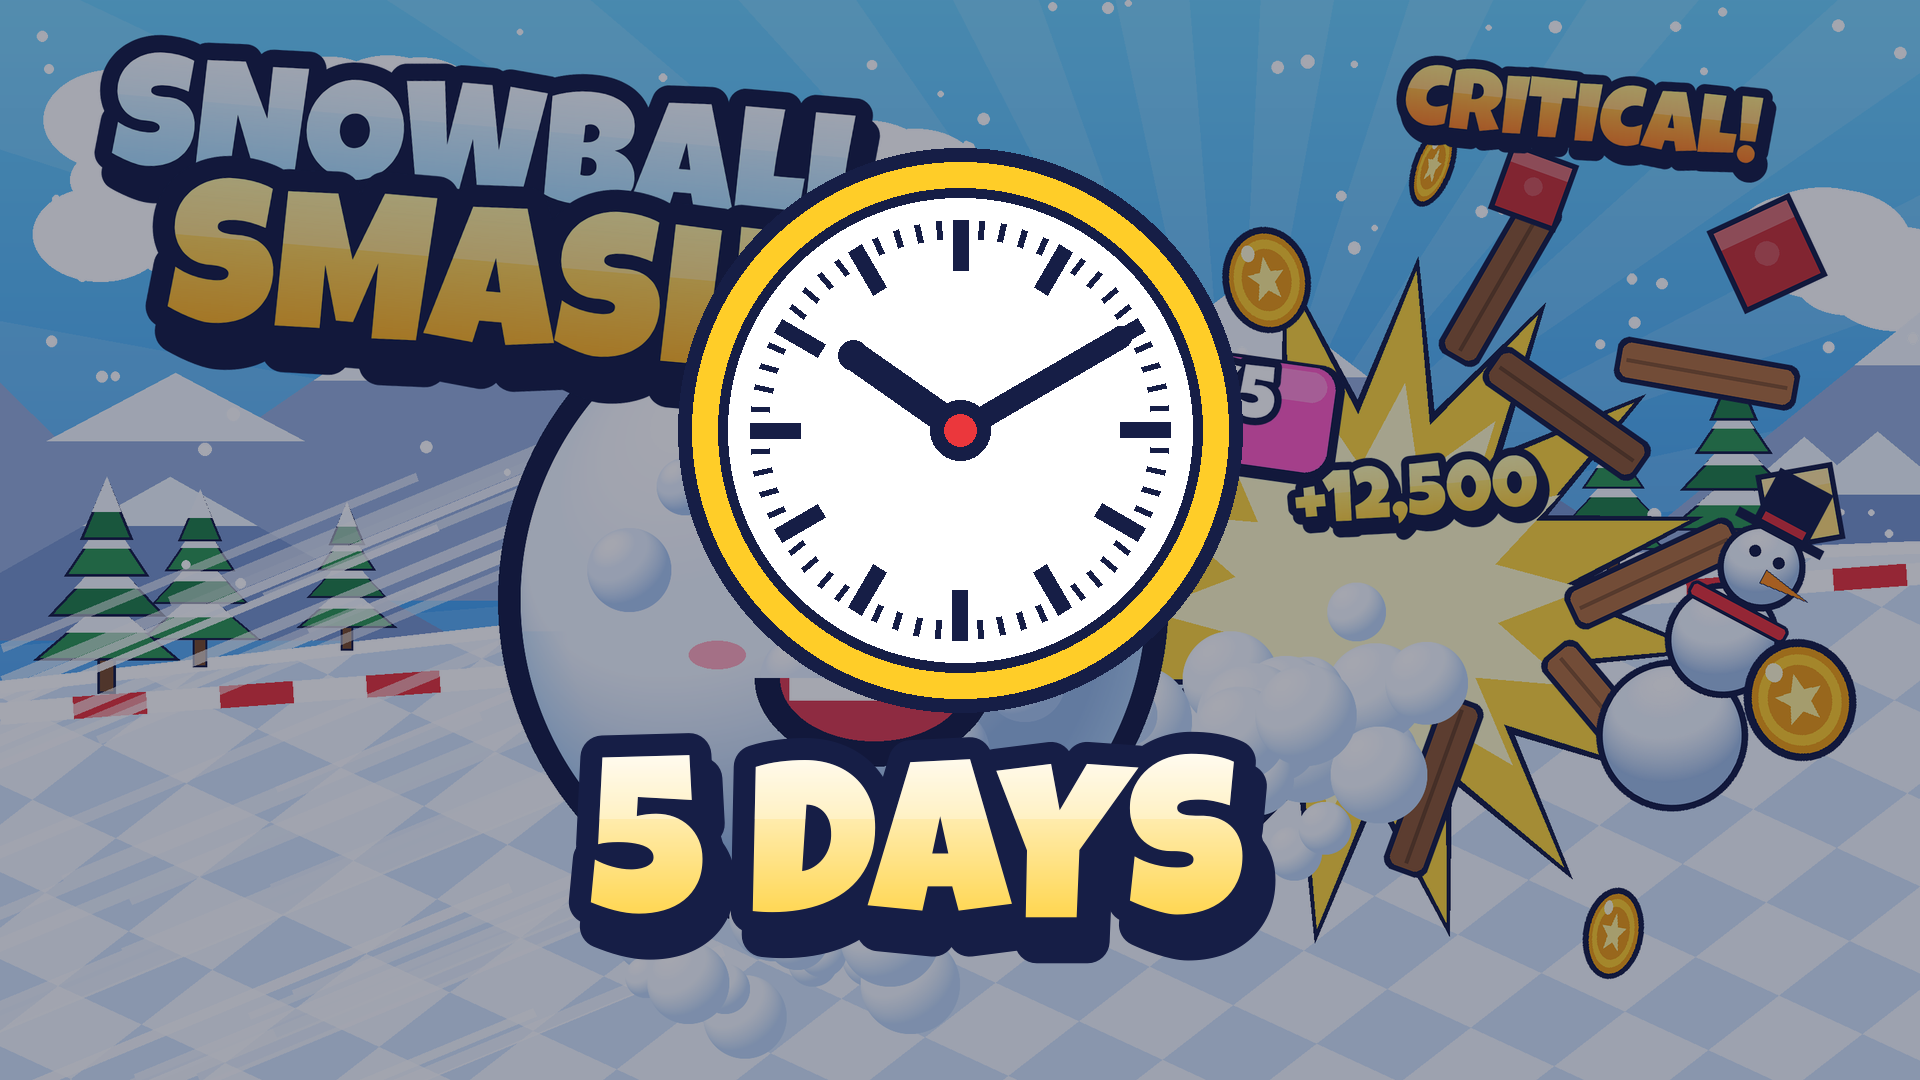
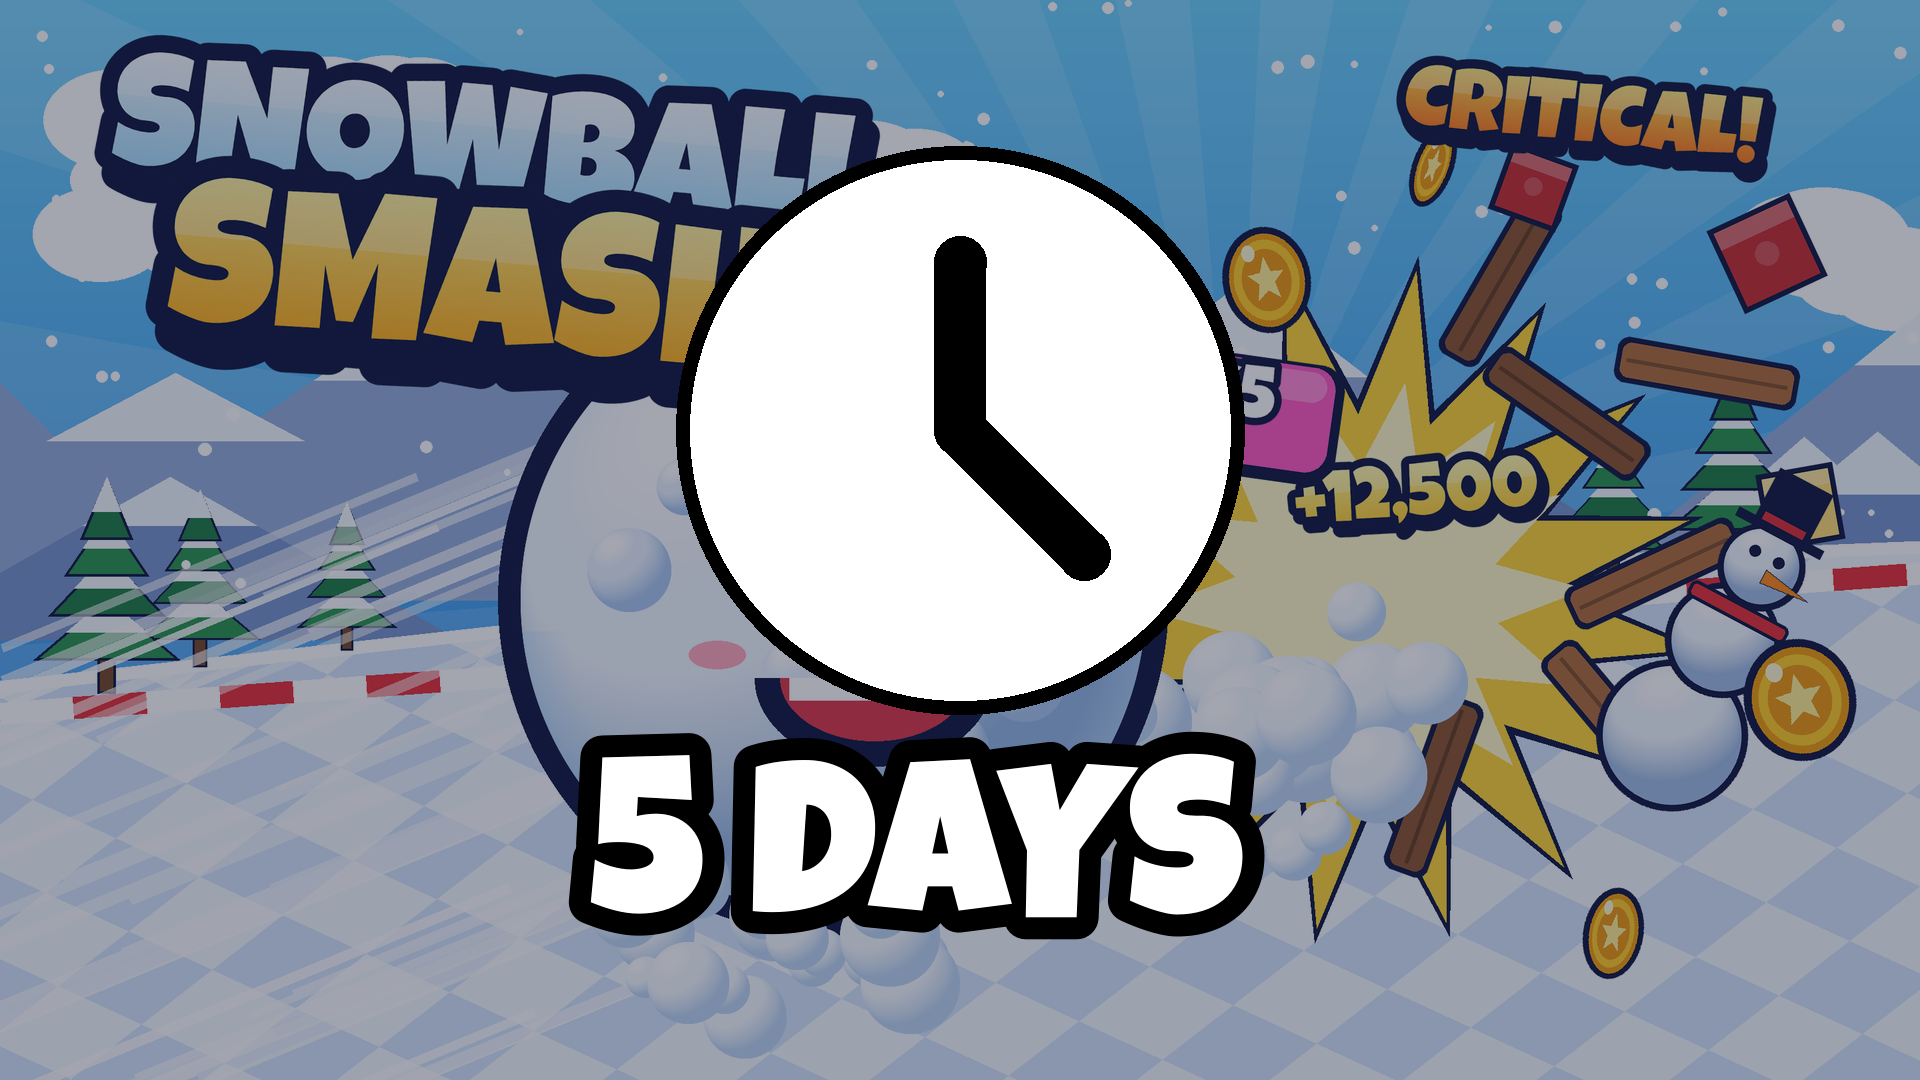
Countdown picture: simple black and white clock and text
Claude-Session: https://claude.ai/code/session_016w7ixMmfd54vVbmLXjoson

Changed region(s): [[0.2812, 0.1222, 0.6875, 0.9167]]

diff --git a/SnowballSmash/build/make_countdown.py b/SnowballSmash/build/make_countdown.py
@@ -22,37 +22,29 @@ img = Image.open("docs/art/thumbnail_1920x1080.png").convert("RGBA")
 # darken a little so the clock stands out, but keep the picture visible
 img.alpha_composite(Image.new("RGBA", (W, H), (10, 15, 40, 95)))
 
-# flat 2D clock
+# flat 2D clock: white face, black hands (like a simple clock icon)
+BLACK = (0, 0, 0)
+WHITE = (255, 255, 255)
 d = ImageDraw.Draw(img)
-cx, cy, r = W / 2, 430, 260
-d.ellipse([cx - r - 22, cy - r - 22, cx + r + 22, cy + r + 22], fill=OUTLINE)  # outline
-d.ellipse([cx - r - 8, cy - r - 8, cx + r + 8, cy + r + 8], fill=(255, 205, 40))  # yellow rim
-d.ellipse([cx - r + 18, cy - r + 18, cx + r - 18, cy + r - 18], fill=OUTLINE)
-d.ellipse([cx - r + 28, cy - r + 28, cx + r - 28, cy + r - 28], fill=(255, 255, 255))  # face
-# tick marks
-for i in range(60):
-    a = i / 60 * 2 * math.pi
-    big = i % 5 == 0
-    r1 = r - 50
-    r2 = r - (100 if big else 68)
-    w = 16 if big else 6
-    d.line([cx + math.sin(a) * r1, cy - math.cos(a) * r1, cx + math.sin(a) * r2, cy - math.cos(a) * r2],
-           fill=OUTLINE, width=w)
-# hands (10:10)
-def hand(angle_deg, length, width, color):
-    a = math.radians(angle_deg)
-    d.line([cx, cy, cx + math.sin(a) * length, cy - math.cos(a) * length], fill=color, width=width)
-    d.ellipse([cx + math.sin(a) * length - width / 2, cy - math.cos(a) * length - width / 2,
-               cx + math.sin(a) * length + width / 2, cy - math.cos(a) * length + width / 2], fill=color)
+cx, cy, r = W / 2, 430, 270
+d.ellipse([cx - r - 14, cy - r - 14, cx + r + 14, cy + r + 14], fill=BLACK)  # thin black rim
+d.ellipse([cx - r, cy - r, cx + r, cy + r], fill=WHITE)  # white face
 
-hand(305, 130, 30, OUTLINE)  # hour hand
-hand(60, 185, 22, OUTLINE)  # minute hand
-d.ellipse([cx - 30, cy - 30, cx + 30, cy + 30], fill=OUTLINE)
-d.ellipse([cx - 16, cy - 16, cx + 16, cy + 16], fill=(235, 55, 60))
 
-# straight text under the clock
-art.title_text(img, TEXT, art.TITLE_FONT, 220, (W / 2, 880), rot=0, top=(255, 255, 255), bottom=(255, 210, 60),
-               outline=OUTLINE, stroke=22)
+def hand(x2, y2, width):
+    d.line([cx, cy, x2, y2], fill=BLACK, width=width)
+    for x, y in ((cx, cy), (x2, y2)):  # rounded ends
+        d.ellipse([x - width / 2, y - width / 2, x + width / 2, y + width / 2], fill=BLACK)
+
+
+hw = 52
+hand(cx, cy - r * 0.62, hw)  # straight up (12)
+hand(cx + r * 0.46, cy + r * 0.46, hw)  # down-right
+
+
+# straight black-and-white text under the clock
+art.title_text(img, TEXT, art.TITLE_FONT, 220, (W / 2, 880), rot=0, top=WHITE, bottom=WHITE,
+               outline=BLACK, stroke=22, shadow=False)
 
 img.convert("RGB").save(OUT)
 print("saved", OUT)
